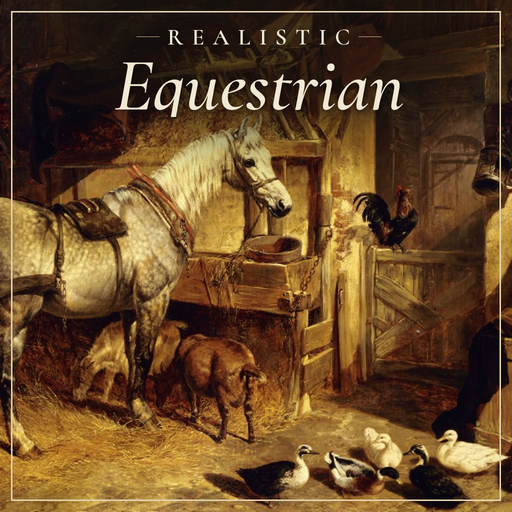
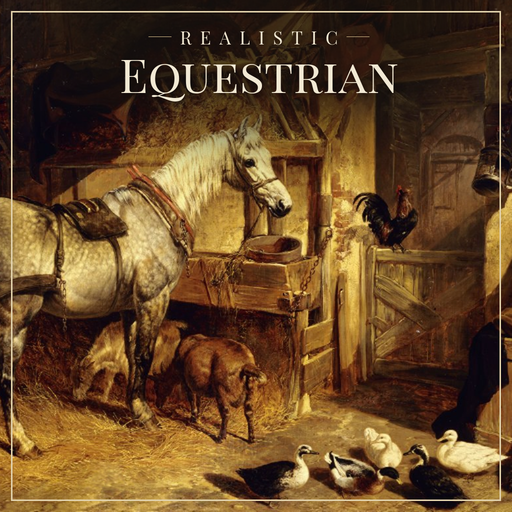
Logotype in Playfair Display SC
Claude-Session: https://claude.ai/code/session_015p8zbxEmxaH1s3E1hVPDer

Changed region(s): [[0.2188, 0.0938, 0.7812, 0.25], [0.3125, 0.0625, 0.6875, 0.0938]]

diff --git a/art/source/compose_icon.py b/art/source/compose_icon.py
@@ -1,13 +1,19 @@
 from PIL import Image, ImageDraw, ImageFont, ImageFilter
 import numpy as np
 F = "fonts/"
+WORD_FONT = F + "PlayfairDisplaySC-Regular.ttf"
+WORD_SCALE = 0.62
+SWASH = False
+WORD_BASELINE = 345
 def italic(size, wght=560):
-    f = ImageFont.truetype(F + "CormorantGaramond-Italic[wght].ttf", size)
+    f = ImageFont.truetype(WORD_FONT, int(size * WORD_SCALE))
     try: f.set_variation_by_axes([wght])
     except Exception: pass
     return f
+CAPS_FONT = F + "PlayfairDisplaySC-Regular.ttf"
+CAPS_SCALE = 0.8
 def caps(size):
-    return ImageFont.truetype(F + "CormorantSC-SemiBold.ttf", size)
+    return ImageFont.truetype(CAPS_FONT, int(size * CAPS_SCALE))
 
 def spaced(draw, xy, text, font, fill, tracking, anchor_center=True):
     widths = [draw.textlength(ch, font=font) for ch in text]
@@ -19,8 +25,39 @@ def spaced(draw, xy, text, font, fill, tracking, anchor_center=True):
         x += w + tracking
     return total
 
-def logotype(scale, ink, rule, rule_len=190):
-    W, H = int(1400 * scale), int(520 * scale)
+def bezier(p, n=200):
+    (x0, y0), (x1, y1), (x2, y2), (x3, y3) = p
+    for i in range(n + 1):
+        t = i / n; u = 1 - t
+        yield t, (u**3*x0 + 3*u*u*t*x1 + 3*u*t*t*x2 + t**3*x3, u**3*y0 + 3*u*u*t*y1 + 3*u*t*t*y2 + t**3*y3)
+
+def swash_q(img, d, font, cx, baseline, scale, ink):
+    """Replace the q's short footed descender with a longer tail that sweeps back under the E."""
+    word = "Equestrian"
+    x0 = cx - font.getlength(word) / 2
+    qx, ux = x0 + font.getlength("E"), x0 + font.getlength("Eq")
+    # Find the stem's centre just above the foot, then clear the foot.
+    import numpy as np
+    a = np.array(img.split()[3])
+    y_cut = int(baseline + 68 * scale)
+    row = np.where(a[y_cut, int(qx):int(ux)] > 128)[0]
+    stem = int(qx) + (row.min() + row.max()) / 2
+    half = (row.max() - row.min() + 1) / 2
+    d.rectangle([qx - 30 * scale, y_cut + 1, ux - 4 * scale, baseline + 100 * scale], fill=(0, 0, 0, 0))
+    # Carry the italic stem on down, then turn it into a tapering hairline curling up at the end.
+    curve = [(stem, y_cut), (stem - 6 * scale, y_cut + 40 * scale), (stem - 40 * scale, y_cut + 58 * scale),
+             (stem - 150 * scale, y_cut + 46 * scale)]
+    for t, (x, y) in bezier(curve, 400):
+        r = half * (1 - t) ** 1.15 + 1.2 * scale
+        d.ellipse([x - r, y - r, x + r, y + r], fill=ink)
+    tail = [curve[3], (stem - 185 * scale, y_cut + 42 * scale), (stem - 205 * scale, y_cut + 30 * scale),
+            (stem - 200 * scale, y_cut + 16 * scale)]
+    for t, (x, y) in bezier(tail, 200):
+        r = 1.2 * scale * (1 - 0.4 * t)
+        d.ellipse([x - r, y - r, x + r, y + r], fill=ink)
+
+def logotype(scale, ink, rule, rule_len=190, flourish=True, swash=True):
+    W, H = int(1400 * scale), int(540 * scale)
     img = Image.new("RGBA", (W, H), (0, 0, 0, 0))
     d = ImageDraw.Draw(img)
     cx = W / 2
@@ -31,7 +68,9 @@ def logotype(scale, ink, rule, rule_len=190):
     d.line([(cx - t / 2 - gap - rule_len * scale, y), (cx - t / 2 - gap, y)], fill=rule, width=max(1, int(3 * scale)))
     d.line([(cx + t / 2 + gap, y), (cx + t / 2 + gap + rule_len * scale, y)], fill=rule, width=max(1, int(3 * scale)))
     # Equestrian, a lively italic
-    d.text((cx, 410 * scale), "Equestrian", font=italic(int(300 * scale)), fill=ink, anchor="ms")
+    d.text((cx, WORD_BASELINE * scale), "Equestrian", font=italic(int(300 * scale)), fill=ink, anchor="ms")
+    if swash and SWASH: swash_q(img, d, italic(int(300 * scale)), cx, 410 * scale, scale, ink)
+    if not flourish: return img
     # a small diamond under, like an engraver's flourish
     dy = 468 * scale; s = 9 * scale
     d.polygon([(cx, dy - s), (cx + s, dy), (cx, dy + s), (cx - s, dy)], fill=rule)
@@ -41,6 +80,7 @@ def logotype(scale, ink, rule, rule_len=190):
 
 
 cream = (242, 233, 212, 255)
+OUT = "icon"
 SRC = "herring_stable_1843.png"
 N = 1024
 icon = Image.open(SRC).convert("RGB").resize((N, N), Image.LANCZOS).convert("RGBA")
@@ -50,8 +90,7 @@ md = ImageDraw.Draw(mask)
 md.ellipse([N*0.08, -N*0.16, N*0.92, N*0.27], fill=175)
 mask = mask.filter(ImageFilter.GaussianBlur(60))
 icon = Image.composite(Image.new("RGBA", (N, N), (20, 17, 12, 255)), icon, mask)
-logo = logotype(0.50, cream, (214, 190, 140, 255), rule_len=90)
-logo = logo.crop((0, 0, logo.width, int(440 * 0.50)))  # no flourish: it would touch the ears
+logo = logotype(0.50, cream, (214, 190, 140, 255), rule_len=90, flourish=False)  # the diamond would touch the ears
 # shadow for legibility on the busy hay rack
 alpha = logo.split()[3].filter(ImageFilter.GaussianBlur(6))
 shadow = Image.new("RGBA", logo.size, (10, 8, 5, 0)); shadow.putalpha(alpha.point(lambda a: int(a*0.8)))
@@ -60,6 +99,9 @@ icon.alpha_composite(shadow, (x + 2, y + 4)); icon.alpha_composite(logo, (x, y))
 d = ImageDraw.Draw(icon)
 d.rectangle([22, 22, N-23, N-23], outline=(226, 210, 172, 150), width=3)
 icon = icon.convert("RGB")
-icon.resize((512, 512), Image.LANCZOS).save("herring_512.png")
-icon.resize((128, 128), Image.LANCZOS).save("herring_128.png")
-icon.resize((512, 512), Image.LANCZOS).save("herring.dds", pixel_format="DXT1")
+icon.resize((512, 512), Image.LANCZOS).save(OUT + "_512.png")
+icon.resize((128, 128), Image.LANCZOS).save(OUT + "_128.png")
+icon.resize((512, 512), Image.LANCZOS).save(OUT + ".dds", pixel_format="DXT1")
+
+logotype(1, (31, 58, 43, 255), (150, 120, 70, 255)).save("logotype_green.png")
+logotype(1, cream, (214, 190, 140, 255)).save("logotype_cream.png")

diff --git a/art/README.md b/art/README.md
@@ -8,5 +8,5 @@ The painting is John Frederick Herring Senior, *The Interior of a Stable with a 
 Harness, with Ducks, Goats, and a Cockerel by a Manger* (1843). Herring died in 1856, so the work is
 in the public domain. `source/herring_stable_1843.png` is the square crop used, lightly retouched to
 remove one duck. `source/compose_icon.py` darkens the top and sets the logotype above the horse's
-head. The lettering uses Cormorant Garamond Italic and Cormorant SC (SIL Open Font License); the
+head. The lettering uses Playfair Display SC (SIL Open Font License); the
 fonts are not included, only the rendered images.
